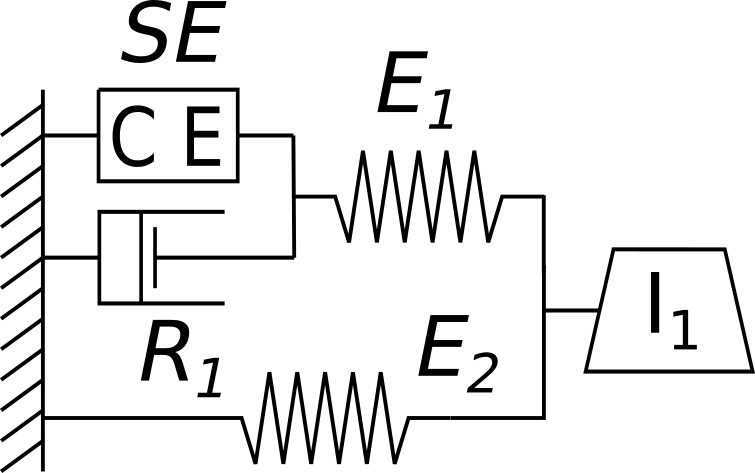
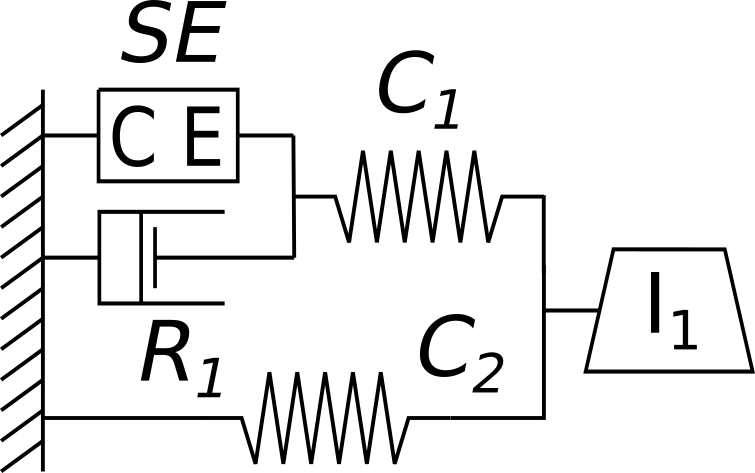
updates for IUPS tutorial; change to use the pDash version of the Hill model as the starting point as it correctly matches the BG and CellML and SED-ML.

Changed region(s): [[0.5483, 0.6512, 0.6702, 0.8288], [0.4874, 0.0888, 0.6093, 0.2664]]

diff --git a/sharing.rst b/sharing.rst
@@ -5,10 +5,8 @@ Sharing
 
 In this part of the tutorial we look at taking an existing model, having a play with it, and sharing it with our colleagues. You need to make sure you have completed the :ref:`preparation <tutorialPreparation>` before embarking on the following.
 
-The Hill 3-element model
-------------------------
-
-For this tutorial we are working with various configurations of the fundamental Hill mechanics model, starting with the basic 3-element model shown in :numref:`isb2017_sharing_basic_hill1_model` and :numref:`isb2017_sharing_basic_hill1_model_BG`. We have prepared a starting point :term:`workspace` for you to begin with. In your browser, head over to http://teaching.physiomeproject.org/workspace/2b4 and :term:`fork` the workspace. This will create your own *private* copy of the workspace to use. Instructions for how to actually accomplish this are given at: :ref:`tut1forkingaworkspace`.
+The Hill 3-element model with parallel damping
+----------------------------------------------
 
 .. Figure:: resources/Dig_Basic1.png
    :name: isb2017_sharing_basic_hill1_model
@@ -16,36 +14,46 @@ For this tutorial we are working with various configurations of the fundamental 
    :align: center
    :width: 40%
    
-   Schematic illustration of the 3-element Hill model we are using in this part of the tutorial. The model is described in the CellML document :file:`Hill_Basic1.cellml`, found in the workspace you are using in this part of the tutorial.
+   Schematic illustration of the initial 3-element Hill model.
 
-.. Figure:: resources/BG_Basic1.png
-   :name: isb2017_sharing_basic_hill1_model_BG
+For this tutorial we are working with various configurations of the fundamental Hill mechanics model, starting with the basic 3-element model shown in :numref:`isb2017_sharing_basic_hill1_model` we have developed a Hill model with parallel damping, as shown in :numref:`iups2017_sharing_hill_pdash_model`. The bond graph form of the model is shown in :numref:`iups2017_sharing_hill_pdash_bg`. We have prepared a starting point :term:`workspace` for you to begin with. In your browser, head over to http://teaching.physiomeproject.org/workspace/2b4 and :term:`fork` the workspace. This will create your own *private* copy of the workspace to use. Instructions for how to actually accomplish this are given at: :ref:`tut1forkingaworkspace`.
+
+.. Figure:: resources/Dig_pDash.png
+   :name: iups2017_sharing_hill_pdash_model
+   :alt: Schematic of the basic 3-element Hill model.
+   :align: center
+   :width: 40%
+   
+   Schematic illustration of the Hill model with parallel damping we are using in this part of the tutorial. The model is located in the :file:`
+
+.. Figure:: resources/BG_pDash.png
+   :name: iups2017_sharing_hill_pdash_bg
    :alt: The underlying bond-graph for the 3-element Hill model.
    :align: center
    :width: 20%
    
-   The bond-graph representation underlying the 3-element Hill model.
+   The bond-graph representation underlying the Hill model.
 
-If you now reload your workspaces in the :guilabel:`PMR Workspaces` panel in OpenCOR, you should see your newly created fork of the basic Hill model workspace. Following the same instructions as given in :ref:`cellml_opencor_pmr_tutorial__pmr_with_opencor`, you should now make a local copy of this workspace. If you load the CellML model :file:`Hill_Basic1.cellml` you can explore the mathematics of this model in the :guilabel:`CellML Text` view in the :guilabel:`Editing` window. You can also switch to the :guilabel:`Simulation` window and try out running some simulations and creating plots of the results. Further assistance for running simulations is available here: :ref:`cellml_opencor_pmr_tutorial__first_model`.
+If you now reload your workspaces in the :guilabel:`PMR Workspaces` panel in OpenCOR, you should see your newly created fork of the Hill model workspace. Following the same instructions as given in :ref:`cellml_opencor_pmr_tutorial__pmr_with_opencor`, you should now make a local copy of this workspace. If you load the CellML model :file:`Hill_Basic_pDash.cellml` you can explore the mathematics of this model in the :guilabel:`CellML Text` view in the :guilabel:`Editing` window. You can also switch to the :guilabel:`Simulation` window and try out running some simulations and creating plots of the results. Further assistance for running simulations is available here: :ref:`cellml_opencor_pmr_tutorial__first_model`.
 
 Sharing simulation descriptions
 -------------------------------
 
-Once you have explored the model mathematics and played with simulations, you can then load the file :file:`Hill_Basic1.sedml` into OpenCOR by double-clicking it. This is a SED-ML document.
+Once you have explored the model mathematics and played with simulations, you can then load the file :file:`Hill_Basic_pDash.sedml` into OpenCOR by double-clicking it. This is a SED-ML document.
 
 .. note::
 
    `SED-ML <http://sed-ml.org>`_ is a standard for encoding descriptions of simulation experiments. OpenCOR makes use of SED-ML to serialise the various settings for simulations to be executed and graphs to be drawn, so that users are able to archive such information as well as share it.
    
-Once the SED-ML file is loaded, you should be able to execute the simulation experiment and hopefully get something that looks similar to :numref:`isb2017_sharing_basic_hill1_results`. Since the SED-ML is directly referencing the CellML model you have been exploring above, exactly how close it matches will depend on how much you changed the :file:`Hill_Basic1.cellml` CellML model. 
+Once the SED-ML file is loaded, you should be able to execute the simulation experiment and hopefully get something that looks similar to :numref:`isb2017_sharing_basic_hill1_results`. Since the SED-ML is directly referencing the CellML model you have been exploring above, exactly how close it matches will depend on how much you changed the :file:`Hill_Basic_pDash.cellml` CellML model. 
 
-.. Figure:: resources/Hill_Basic1_sedml.png
+.. Figure:: resources/Hill_Basic_pDash_sedml.png
    :name: isb2017_sharing_basic_hill1_results
    :alt: Simulation results for Hill Basic1 model.
    :align: center
    :width: 75%
    
-   The results from executing the simulation experiment described in :file:`Hill_Basic1.sedml`.
+   The results from executing the simulation experiment described in :file:`Hill_Basic_pDash.sedml`.
 
 If you are wondering what changes you might have introduced to the model you can make use of the :guilabel:`PMR Workspaces` widget to check for differences. If there are any differences, you should see little icon decorations in the file listing for this workspace and the :menuselection:`Synchronise Workspace With PMR...` menu option under the context-menu (right-click) should be available. If you then choose the :menuselection:`Synchronise Workspace With PMR...` you will be presented with a graphical summary of the changes that have been made.
 
@@ -54,7 +62,7 @@ If you are wondering what changes you might have introduced to the model you can
 Sharing your customisations
 ---------------------------
 
-To further demonstrate the sharing capabilities, go back to the :file:`Hill_Basic1.cellml` CellML model and using both the model editing and simulation capabilities of OpenCOR see if you can come up with an interesting simulation experiment to share with your neighbour. Starting in the :file:`Hill_Basic1.cellml` window: 
+To further demonstrate the sharing capabilities, go back to the :file:`Hill_Basic_pDash.cellml` CellML model and using both the model editing and simulation capabilities of OpenCOR see if you can come up with an interesting simulation experiment to share with your neighbour. Starting in the :file:`Hill_Basic_pDash.cellml` window: 
 
 1. Iterate between the :guilabel:`Editing` and :guilabel:`Simulation` views to try and obtain some interesting plots or results.
 #. See :ref:`cellml_opencor_pmr_tutorial__first_model` for a reminder of how OpenCOR functions.

diff --git a/index.rst b/index.rst
@@ -4,7 +4,7 @@
 Physiome journal workshop @ IUPS 2017
 =====================================
 
-**Tutors:** `David Nickerson <http://www.abi.auckland.ac.nz/people/d-nickerson>`_, `Alan Garny <http://www.opencor.ws>`_, `Soroush Safaei <http://www.abi.auckland.ac.nz/people/ssaf006>`_, and `Peter Hunter <http://www.abi.auckland.ac.nz/people/p-hunter>`_, `Auckland Bioengineering Institute <http://www.abi.auckland.ac.nz/>`_, University of Auckland, New Zealand.
+**Tutors:** `David Nickerson <http://www.abi.auckland.ac.nz/people/d-nickerson>`_, `Alan Garny <http://www.opencor.ws>`_, `Soroush Safaei <http://www.abi.auckland.ac.nz/people/ssaf006>`_, `Dewan Sarwar <http://www.abi.auckland.ac.nz/people/dsar941>`_, and `Peter Hunter <http://www.abi.auckland.ac.nz/people/p-hunter>`_, `Auckland Bioengineering Institute <http://www.abi.auckland.ac.nz/>`_, University of Auckland, New Zealand.
 
 A long term goal for research in computational physiology is to be able to interpret measurements of physiological function from multiple physiological scales, including whole body measurements as well as molecular level function through, for example, blood biomarkers or tissue biopsies. This requires multi-scale modelling to relate the molecular function of cells and tissues to the integrated performance of the body’s organ systems. In many cases it also requires the models to be as specific to the individual as possible.
 
@@ -12,7 +12,7 @@ The Physiome Project is an international effort to establish an open science fra
 
 :ref:`Physiome Model Repository <abi-pmr2-index>` provides a framework for the storage, curation, discovery, and exchange of data. By using standards suitable to their data, scientists maximise their ability to reuse existing knowledge and enable others to make use of their achievements in novel work. Annotations ensure scientists are able to find existing data and are also able to correctly interpret and apply their own data. In this workshop we will demonstrate the use of the Physiome Project modelling framework and show participants how to use the freely available tool OpenCOR and the associated model database. 
 
-IUPS is launching a new open access journal called Physiome that will publish papers based on these reproducibility standards. In this workshop we will also explain the types of submission that will be accepted by Physiome and the facilities that will be available to readers for viewing and exploring the models. 
+IUPS is launching a new open access journal called *Physiome* (`journal.physiomeproject.org <https://journal.physiomeproject.org/>`_) that will publish papers based on these reproducibility standards. In this workshop we will also explain the types of submission that will be accepted by *Physiome* and the facilities that will be available to readers for viewing and exploring the models. 
 
 The following will guide participants through a series of tasks that will highlight some of the capabilities of the tools and technologies mentioned above, as well as to demonstrate some of the benefits of following standards-based workflows for model development and simulation. We believe will help ensure reproducible and reusable science.
 
